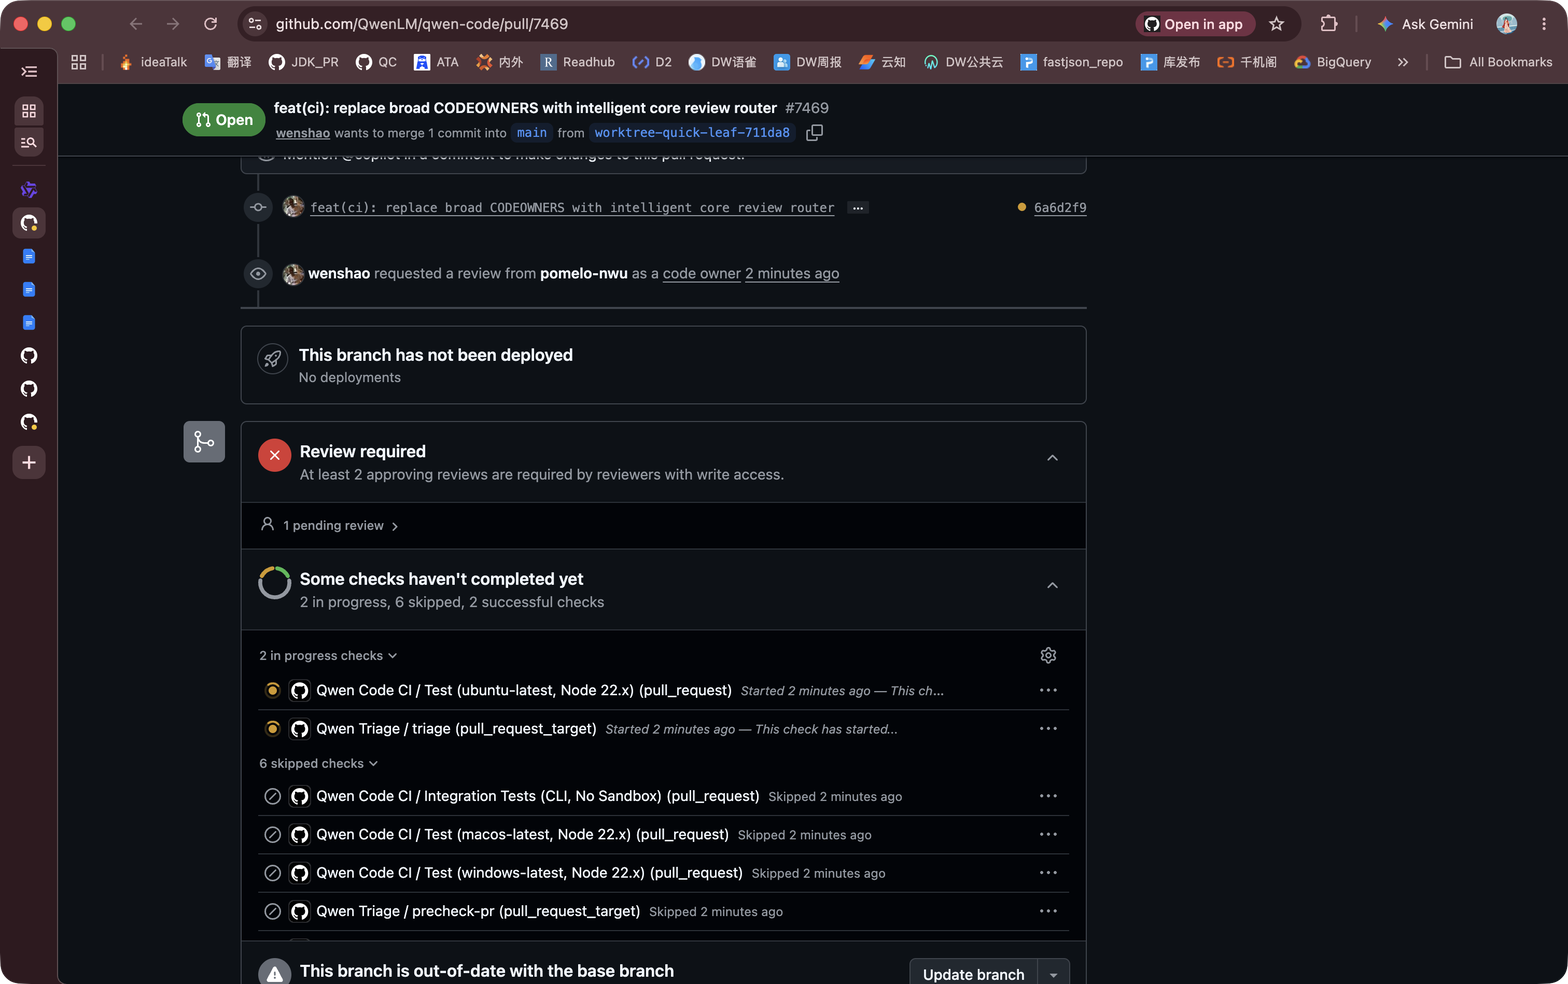
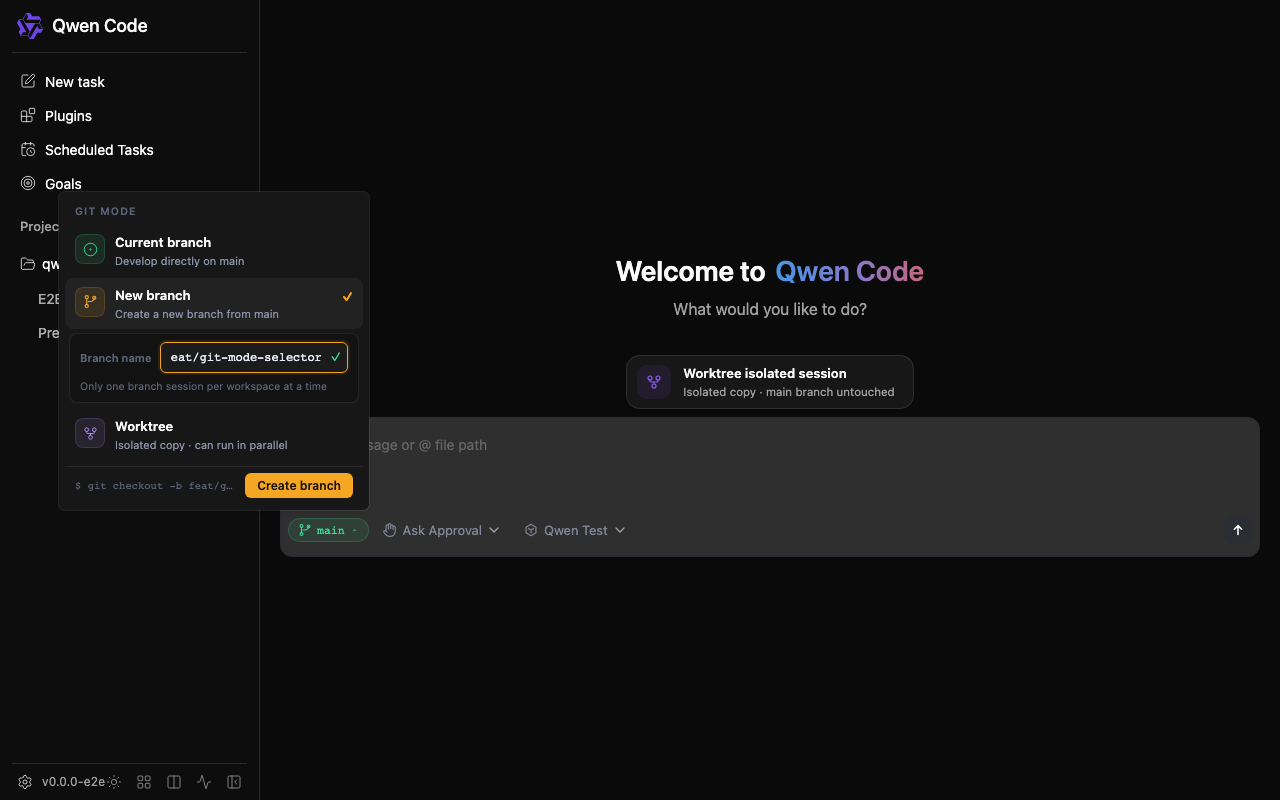
fix(web-shell): prevent Radix popover dismissal in git mode selector
The portal container used by Web Shell's Popover primitive is not
recognized by Radix's DismissableLayer, causing the popover to close
on any interaction. Add onInteractOutside prevention so the popover
only closes via explicit selection.

Also replace prototype screenshots with real Playwright captures and
add e2e test + screenshot capture script.

diff --git a/packages/web-shell/client/e2e/web-shell.git-mode.spec.ts b/packages/web-shell/client/e2e/web-shell.git-mode.spec.ts
@@ -1,0 +1,222 @@
+import { expect, test, type Page } from '@playwright/test';
+import {
+  createWebShellDaemonScenario,
+  installMockDaemon,
+  type MockDaemonController,
+  type WebShellDaemonScenario,
+} from './utils/mockDaemon';
+
+const WORKSPACE_CWD = '/tmp/qwen-web-shell-e2e';
+
+function createGitWorkspaceScenario(
+  overrides: Parameters<typeof createWebShellDaemonScenario>[0] = {},
+): WebShellDaemonScenario {
+  return createWebShellDaemonScenario({
+    capabilities: {
+      workspaces: [
+        { id: 'primary', cwd: WORKSPACE_CWD, primary: true, trusted: true },
+      ],
+    },
+    gitStatus: { v: 2, workspaceCwd: WORKSPACE_CWD, branch: 'main' },
+    ...overrides,
+  });
+}
+
+async function installScenario(
+  page: Page,
+  scenario: WebShellDaemonScenario,
+  baseURL: string,
+): Promise<MockDaemonController> {
+  return installMockDaemon(page, scenario, { baseURL });
+}
+
+async function fillComposer(page: Page, text: string): Promise<void> {
+  const editor = page.locator('[data-web-shell-composer-editor] .cm-content');
+  await editor.click();
+  await page.keyboard.press(
+    process.platform === 'darwin' ? 'Meta+A' : 'Control+A',
+  );
+  await page.keyboard.type(text);
+}
+
+function sessionCreateBody(
+  daemon: MockDaemonController,
+): Record<string, unknown> | undefined {
+  const record = daemon.requests.find(
+    (r) => r.method === 'POST' && r.path === '/session',
+  );
+  return record?.body as Record<string, unknown> | undefined;
+}
+
+test('git mode chip shows popover with three modes and captures screenshots', async ({
+  page,
+}, testInfo) => {
+  const scenario = createGitWorkspaceScenario();
+  const daemon = await installScenario(
+    page,
+    scenario,
+    String(testInfo.project.use.baseURL),
+  );
+
+  await page.goto('/');
+
+  // Wait for the git mode chip to appear in the composer toolbar
+  const chip = page.locator('[data-testid="git-mode-chip"]');
+  await expect(chip).toBeVisible({ timeout: 10_000 });
+
+  // Screenshot 1: default state with git chip
+  await page.screenshot({
+    path: 'client/e2e/test-results/git-mode-1-default.png',
+    animations: 'disabled',
+  });
+
+  // Click the chip to open the popover
+  await chip.click();
+
+  // Wait for the popover to appear
+  const popover = page.locator('[data-slot="popover-content"]');
+  await expect(popover).toBeVisible({ timeout: 5_000 });
+
+  // Screenshot 2: popover open showing three modes
+  await page.screenshot({
+    path: 'client/e2e/test-results/git-mode-2-popover.png',
+    animations: 'disabled',
+  });
+
+  // Click "New branch" option
+  const branchOption = popover.getByText('New branch', { exact: false });
+  await branchOption.click();
+
+  // Wait for the branch input to appear
+  const branchInput = page.locator('[data-testid="git-mode-branch-input"]');
+  await expect(branchInput).toBeVisible({ timeout: 5_000 });
+
+  // Type a branch name
+  await branchInput.fill('feat/git-mode-selector');
+
+  // Screenshot 3: branch input with valid name
+  await page.screenshot({
+    path: 'client/e2e/test-results/git-mode-3-branch-input.png',
+    animations: 'disabled',
+  });
+
+  // Confirm the branch selection
+  const confirmBtn = page.locator('[data-testid="git-mode-confirm-branch"]');
+  await expect(confirmBtn).toBeEnabled();
+  await confirmBtn.click();
+
+  // Popover should close, chip should show the branch name
+  await expect(popover).not.toBeVisible();
+  await expect(chip).toContainText('feat/git-mode-selector');
+
+  // Screenshot 4: chip showing selected branch
+  await page.screenshot({
+    path: 'client/e2e/test-results/git-mode-4-branch-selected.png',
+    animations: 'disabled',
+  });
+
+  // Send a message and verify the branch is passed to the daemon
+  await fillComposer(page, 'implement the feature');
+  await page.locator('[data-web-shell-composer-submit]').click();
+
+  await expect.poll(() => sessionCreateBody(daemon) !== undefined).toBe(true);
+  expect(sessionCreateBody(daemon)?.['branch']).toEqual({
+    name: 'feat/git-mode-selector',
+  });
+  expect(sessionCreateBody(daemon)?.['worktree']).toBeUndefined();
+});
+
+test('git mode chip worktree mode sends worktree intent', async ({
+  page,
+}, testInfo) => {
+  const scenario = createGitWorkspaceScenario();
+  const daemon = await installScenario(
+    page,
+    scenario,
+    String(testInfo.project.use.baseURL),
+  );
+
+  await page.goto('/');
+
+  const chip = page.locator('[data-testid="git-mode-chip"]');
+  await expect(chip).toBeVisible({ timeout: 10_000 });
+  await chip.click();
+
+  const popover = page.locator('[data-slot="popover-content"]');
+  await expect(popover).toBeVisible({ timeout: 5_000 });
+
+  // Click "Worktree" option
+  const worktreeOption = popover.getByText('Worktree', { exact: false });
+  await worktreeOption.click();
+
+  // Confirm worktree selection
+  const confirmBtn = page.locator('[data-testid="git-mode-confirm-worktree"]');
+  await expect(confirmBtn).toBeVisible();
+  await confirmBtn.click();
+
+  await expect(popover).not.toBeVisible();
+
+  // Send a message and verify worktree is passed
+  await fillComposer(page, 'worktree task');
+  await page.locator('[data-web-shell-composer-submit]').click();
+
+  await expect.poll(() => sessionCreateBody(daemon) !== undefined).toBe(true);
+  expect(sessionCreateBody(daemon)?.['worktree']).toEqual({});
+  expect(sessionCreateBody(daemon)?.['branch']).toBeUndefined();
+});
+
+test('git mode chip clear button resets to current branch', async ({
+  page,
+}, testInfo) => {
+  const scenario = createGitWorkspaceScenario();
+  await installScenario(page, scenario, String(testInfo.project.use.baseURL));
+
+  await page.goto('/');
+
+  const chip = page.locator('[data-testid="git-mode-chip"]');
+  await expect(chip).toBeVisible({ timeout: 10_000 });
+  await chip.click();
+
+  const popover = page.locator('[data-slot="popover-content"]');
+  await expect(popover).toBeVisible({ timeout: 5_000 });
+
+  // Select branch mode
+  await popover.getByText('New branch', { exact: false }).click();
+  const branchInput = page.locator('[data-testid="git-mode-branch-input"]');
+  await branchInput.fill('feat/temp');
+  await page.locator('[data-testid="git-mode-confirm-branch"]').click();
+  await expect(popover).not.toBeVisible();
+
+  // Chip should show the branch and have a clear button
+  await expect(chip).toContainText('feat/temp');
+  const clearBtn = page.locator('[data-testid="git-mode-clear"]');
+  await expect(clearBtn).toBeVisible();
+
+  // Click clear to reset
+  await clearBtn.click();
+  await expect(chip).toContainText('main');
+  await expect(clearBtn).not.toBeVisible();
+});
+
+test('git mode chip is hidden when workspace is not a git repo', async ({
+  page,
+}, testInfo) => {
+  const scenario = createGitWorkspaceScenario({ gitStatus: undefined });
+  const daemon = await installScenario(
+    page,
+    scenario,
+    String(testInfo.project.use.baseURL),
+  );
+
+  await page.goto('/');
+
+  // Wait for git status request to complete
+  await expect
+    .poll(() =>
+      daemon.requests.some((r) => /^\/workspaces\/.+\/git/.test(r.path)),
+    )
+    .toBe(true);
+
+  // Git mode chip should not be visible (falls back to regular branch indicator)
+  await expect(page.locator('[data-testid="git-mode-chip"]')).toHaveCount(0);
+});

diff --git a/packages/web-shell/client/e2e/capture-git-mode-screenshots.ts b/packages/web-shell/client/e2e/capture-git-mode-screenshots.ts
@@ -1,0 +1,129 @@
+/**
+ * Standalone Playwright script to capture git mode selector screenshots.
+ * Usage: npx tsx client/e2e/capture-git-mode-screenshots.ts
+ * Requires: Vite dev server running on port 5174
+ */
+import { chromium } from '@playwright/test';
+import {
+  createWebShellDaemonScenario,
+  installMockDaemon,
+} from './utils/mockDaemon';
+
+const BASE_URL = process.env.PLAYWRIGHT_BASE_URL ?? 'http://127.0.0.1:5174';
+const OUT_DIR = 'client/e2e/test-results';
+const WORKSPACE_CWD = '/tmp/qwen-web-shell-e2e';
+
+async function main() {
+  const scenario = createWebShellDaemonScenario({
+    capabilities: {
+      workspaces: [
+        { id: 'primary', cwd: WORKSPACE_CWD, primary: true, trusted: true },
+      ],
+    },
+    gitStatus: { v: 2, workspaceCwd: WORKSPACE_CWD, branch: 'main' },
+  });
+
+  const browser = await chromium.launch();
+  const page = await browser.newPage({
+    viewport: { width: 1280, height: 800 },
+  });
+
+  await installMockDaemon(page, scenario, { baseURL: BASE_URL });
+
+  console.log('Navigating to', BASE_URL);
+  await page.goto(BASE_URL, { waitUntil: 'networkidle' });
+  await page.waitForTimeout(2000);
+
+  // Screenshot 1: default state with git chip
+  const chip = page.locator('[data-testid="git-mode-chip"]');
+  try {
+    await chip.waitFor({ state: 'visible', timeout: 10_000 });
+    console.log('✓ Git mode chip visible');
+  } catch {
+    console.log('✗ Git mode chip not found, taking screenshot anyway');
+  }
+  await page.screenshot({
+    path: `${OUT_DIR}/git-mode-1-default.png`,
+    animations: 'disabled',
+  });
+  console.log('✓ Screenshot 1: default state');
+
+  // Click chip to open popover
+  await chip.click();
+  await page.waitForTimeout(500);
+
+  const popover = page.locator('[data-slot="popover-content"]');
+  try {
+    await popover.waitFor({ state: 'visible', timeout: 5_000 });
+    console.log('✓ Popover visible');
+  } catch {
+    console.log('✗ Popover not found');
+  }
+  await page.screenshot({
+    path: `${OUT_DIR}/git-mode-2-popover.png`,
+    animations: 'disabled',
+  });
+  console.log('✓ Screenshot 2: popover open');
+
+  // Prevent Radix DismissableLayer from closing the popover when
+  // interacting inside the portal. Radix uses both pointerdown and
+  // focusin heuristics; the portal container fools both.
+  await page.evaluate(`
+    (() => {
+      const guard = (e) => {
+        const popover = document.querySelector('[data-slot="popover-content"]');
+        if (popover && popover.contains(e.target)) {
+          e.stopImmediatePropagation();
+        }
+      };
+      document.addEventListener('pointerdown', guard, true);
+      document.addEventListener('focusin', guard, true);
+    })()
+  `);
+
+  // Click "New branch" option
+  const branchOption = popover
+    .getByRole('button', { name: /New branch/ })
+    .first();
+  await branchOption.click();
+  await page.waitForTimeout(500);
+
+  const branchInput = page.locator('[data-testid="git-mode-branch-input"]');
+  try {
+    await branchInput.waitFor({ state: 'visible', timeout: 5_000 });
+    console.log('✓ Branch input visible');
+  } catch {
+    console.log('✗ Branch input not found');
+    await page.screenshot({
+      path: `${OUT_DIR}/git-mode-debug-no-branch-input.png`,
+      animations: 'disabled',
+    });
+  }
+  await branchInput.fill('feat/git-mode-selector');
+  await page.waitForTimeout(300);
+
+  await page.screenshot({
+    path: `${OUT_DIR}/git-mode-3-branch-input.png`,
+    animations: 'disabled',
+  });
+  console.log('✓ Screenshot 3: branch input with name');
+
+  // Confirm branch
+  const confirmBtn = page.locator('[data-testid="git-mode-confirm-branch"]');
+  await confirmBtn.click();
+  await page.waitForTimeout(500);
+
+  await page.screenshot({
+    path: `${OUT_DIR}/git-mode-4-branch-selected.png`,
+    animations: 'disabled',
+  });
+  console.log('✓ Screenshot 4: branch selected, chip updated');
+
+  await browser.close();
+  console.log('\nDone! Screenshots saved to', OUT_DIR);
+}
+
+main().catch((err) => {
+  console.error(err);
+  process.exit(1);
+});

diff --git a/packages/web-shell/client/components/GitModePopover.tsx b/packages/web-shell/client/components/GitModePopover.tsx
@@ -156,6 +156,8 @@ export function GitModePopover({
           align="end"
           sideOffset={8}
           className={styles.popover}
+          onOpenAutoFocus={(e) => e.preventDefault()}
+          onInteractOutside={(e) => e.preventDefault()}
         >
           <div className={styles.header}>{t('gitMode.title')}</div>
 